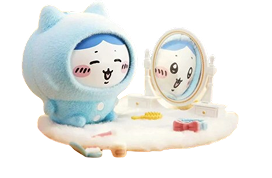
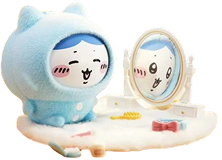
fixed images cropping out

diff --git a/css/shop.css b/css/shop.css
@@ -174,10 +174,12 @@
 }
 
 .image-container img {
-  width: 100%;
-  height: 100%;
-  object-fit: cover;
+  width: 90%;
+  height: 90%;
+  object-fit: contain;
   display: block;
+  margin: auto;
+  padding: 10px;
   transition: transform 0.4s ease;
 }
 
